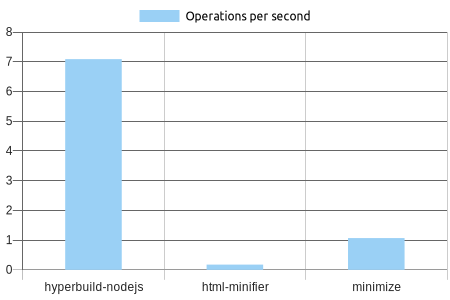
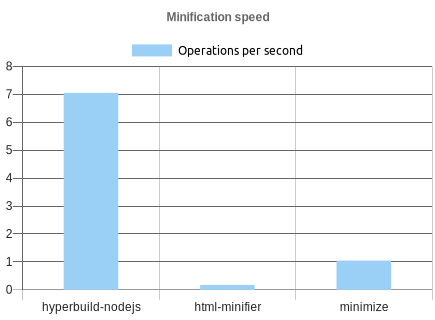
Improve graphs

Changed region(s): [[0.0, 0.03, 1.0, 0.99]]

diff --git a/bench/bench.js b/bench/bench.js
@@ -67,11 +67,15 @@ const colours = [
     borderColor: '#4bc0c0',
   },
 ];
-const renderChart = async (file, cfg) => {
-  const chart = new chartjs(450, 300);
+const renderChart = async (file, title, cfg) => {
+  const chart = new chartjs(435, 320);
   await chart.drawChart({
     ...cfg,
     options: {
+      title: {
+        display: true,
+        text: title,
+      },
       scales: {
         xAxes: [{
           barPercentage: 0.5,
@@ -144,7 +148,7 @@ suite
       count: b.count,
       ops: b.hz,
     })).sort((a, b) => a.hz - b.hz);
-    await renderChart('speed', {
+    await renderChart('speed', 'Minification speed', {
       type: 'bar',
       data: {
         labels: speedResults.map(r => r.name),
@@ -158,7 +162,7 @@ suite
 
     const testNames = Object.keys(sizes);
     const programNames = Object.keys(programs);
-    await renderChart('minification', {
+    await renderChart('minification', 'Relative minified HTML file size', {
       type: 'bar',
       scaleFontColor: 'red',
       data: {
